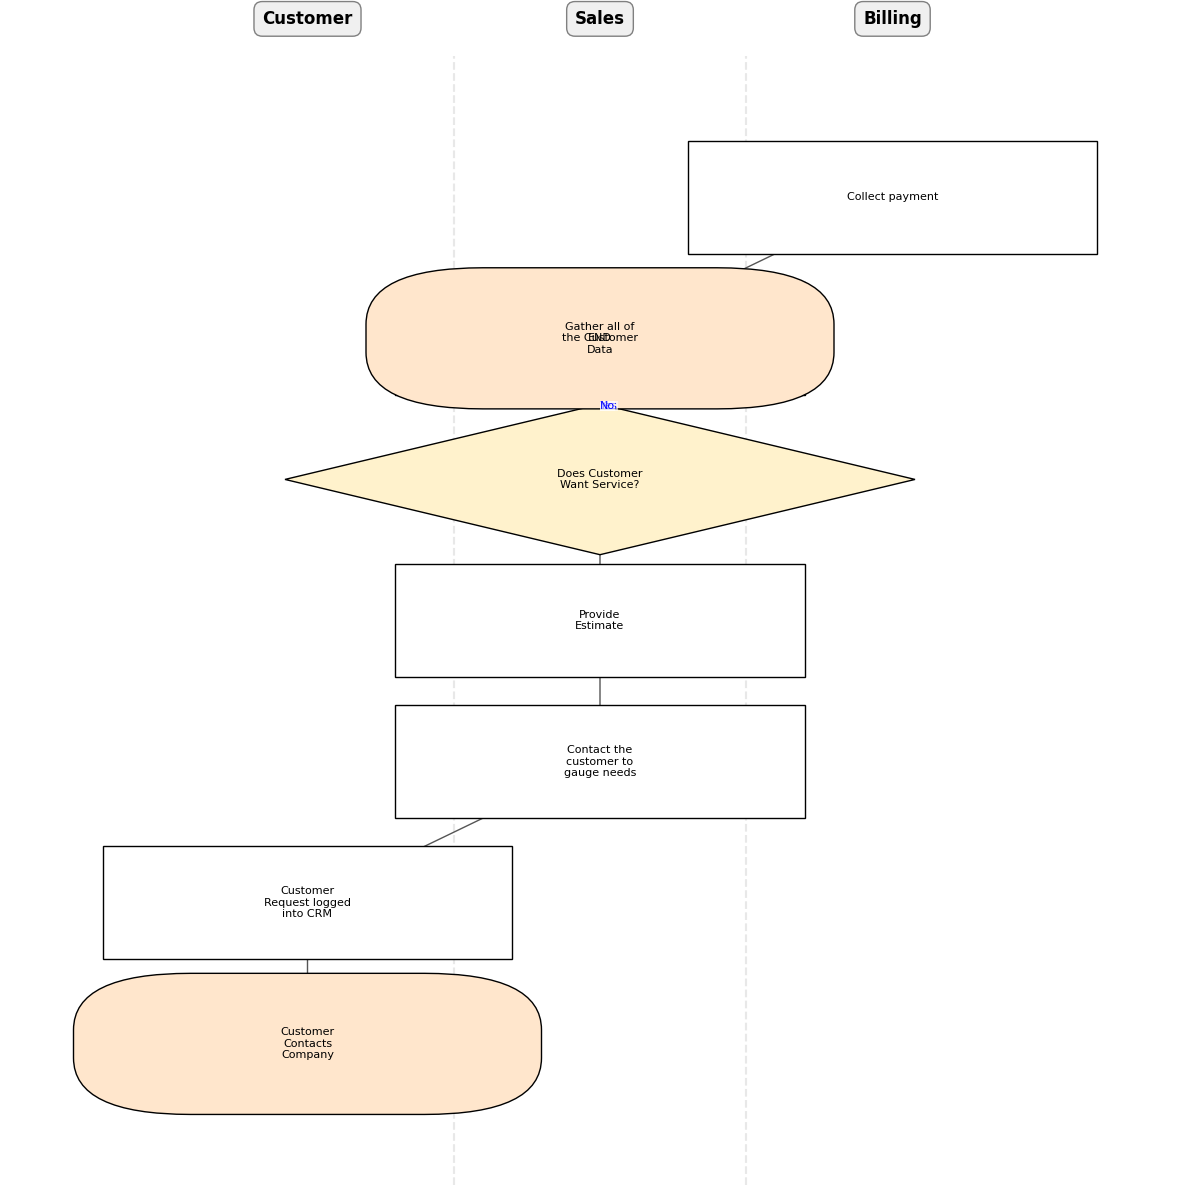
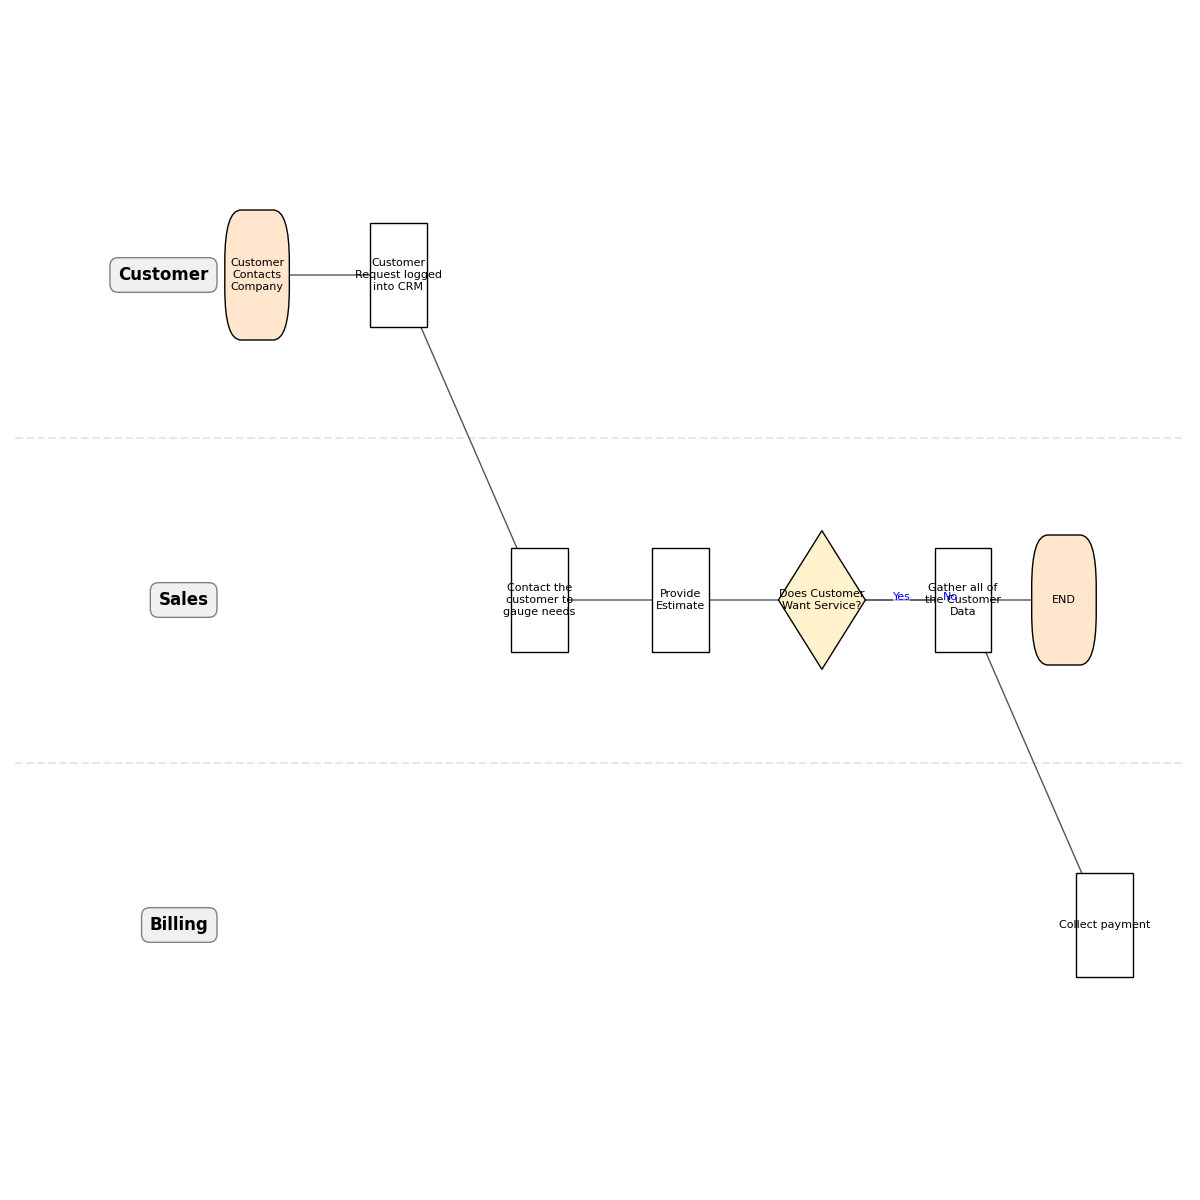
newdDraw

diff --git a/src/draw.py b/src/draw.py
@@ -166,28 +166,44 @@ def calculate_layout(nodes, edges, lanes):
     layout = {}
     
     if lanes:
-        # Swimlane Layout
-        for node_id, data in nodes.items():
-            lane = data.get('lane_index')
+        # Swimlane Layout (Horizontal expansion, lanes as rows)
+        min_lane = min(lanes.keys()) if lanes else 1
+        sorted_nodes = sorted(nodes.keys(), key=lambda n: levels.get(n, 0))
+        lane_next_x = {}
+        
+        for node_id in sorted_nodes:
+            lane = nodes[node_id].get('lane_index')
             if lane is None:
-                lane = 1 # Default to first lane if undefined
+                lane_y = min_lane - 1 # Above the first lane
+            else:
+                lane_y = lane
+                
             level = levels.get(node_id, 0)
-            layout[node_id] = (lane, -level)
+            
+            # Base X is related to level to maintain topological flow
+            min_x_for_level = level * 3.5 
+            
+            # Ensure nodes in the same lane expand horizontally without overlap
+            current_lane_x = lane_next_x.get(lane_y, -3.5)
+            x = max(min_x_for_level, current_lane_x + 2.5) 
+            lane_next_x[lane_y] = x
+            
+            # Y corresponds to lane index to display lanes as rows
+            y = lane_y * 2.5
+            layout[node_id] = (x, y)
     else:
-        # Auto-Layout without lanes
-        # Group nodes by level
+        # Auto-Layout without lanes (Left-to-right flow)
         nodes_by_level = {}
         for node_id, level in levels.items():
             if level not in nodes_by_level:
                 nodes_by_level[level] = []
             nodes_by_level[level].append(node_id)
             
-        # Assign X coordinates centered around 0
         for level, level_nodes in nodes_by_level.items():
-            width = len(level_nodes)
-            start_x = -(width - 1) / 2
+            height = len(level_nodes)
+            start_y = -(height - 1) / 2.0 * 2.0
             for i, node_id in enumerate(level_nodes):
-                layout[node_id] = (start_x + i * 1.5, -level * 1.5) # Spacing: 1.5
+                layout[node_id] = (level * 3.0, start_y + i * 2.0)
                 
     return layout
 
@@ -210,22 +226,35 @@ def draw_flowchart(lanes, nodes, edges, layout, output_file='flowchart.png'):
     min_y, max_y = min(ys), max(ys)
     
     # Margin
-    ax.set_xlim(min_x - 1, max_x + 1)
-    ax.set_ylim(min_y - 1, max_y + 1)
+    margin_left = 6 if lanes else 2
+    ax.set_xlim(min_x - margin_left, max_x + 2)
+    ax.set_ylim(min_y - 2, max_y + 2)
     ax.invert_yaxis()
     ax.axis('off')
 
     # Draw Lanes (if any)
     if lanes:
         sorted_lanes = sorted(lanes.items())
+        has_no_lane_nodes = any(data.get('lane_index') is None for data in nodes.values())
+        
+        if has_no_lane_nodes and sorted_lanes:
+            first_lane_y = sorted_lanes[0][0] * 2.5
+            sep_y = first_lane_y - 1.25
+            ax.axhline(y=sep_y, color='lightgray', linestyle='--', alpha=0.5, zorder=0)
+
         for i, (idx, name) in enumerate(sorted_lanes):
-            ax.text(idx, min_y - 1.2, name, 
-                    ha='center', va='bottom', fontsize=12, fontweight='bold',
+            lane_y = idx * 2.5
+            import textwrap
+            wrapped_name = "\n".join(textwrap.wrap(name, width=15))
+            ax.text(min_x - 1.2, lane_y, wrapped_name, 
+                    ha='right', va='center', fontsize=12, fontweight='bold',
                     bbox=dict(facecolor='#f0f0f0', edgecolor='gray', boxstyle='round,pad=0.5'))
             # Draw separators half-way between indices
             if i < len(sorted_lanes) - 1:
-                sep_x = idx + 0.5
-                ax.axvline(x=sep_x, color='lightgray', linestyle='--', alpha=0.5, zorder=0)
+                next_idx = sorted_lanes[i+1][0]
+                next_lane_y = next_idx * 2.5
+                sep_y = (lane_y + next_lane_y) / 2.0
+                ax.axhline(y=sep_y, color='lightgray', linestyle='--', alpha=0.5, zorder=0)
 
     # Draw Edges
     for edge in edges:
